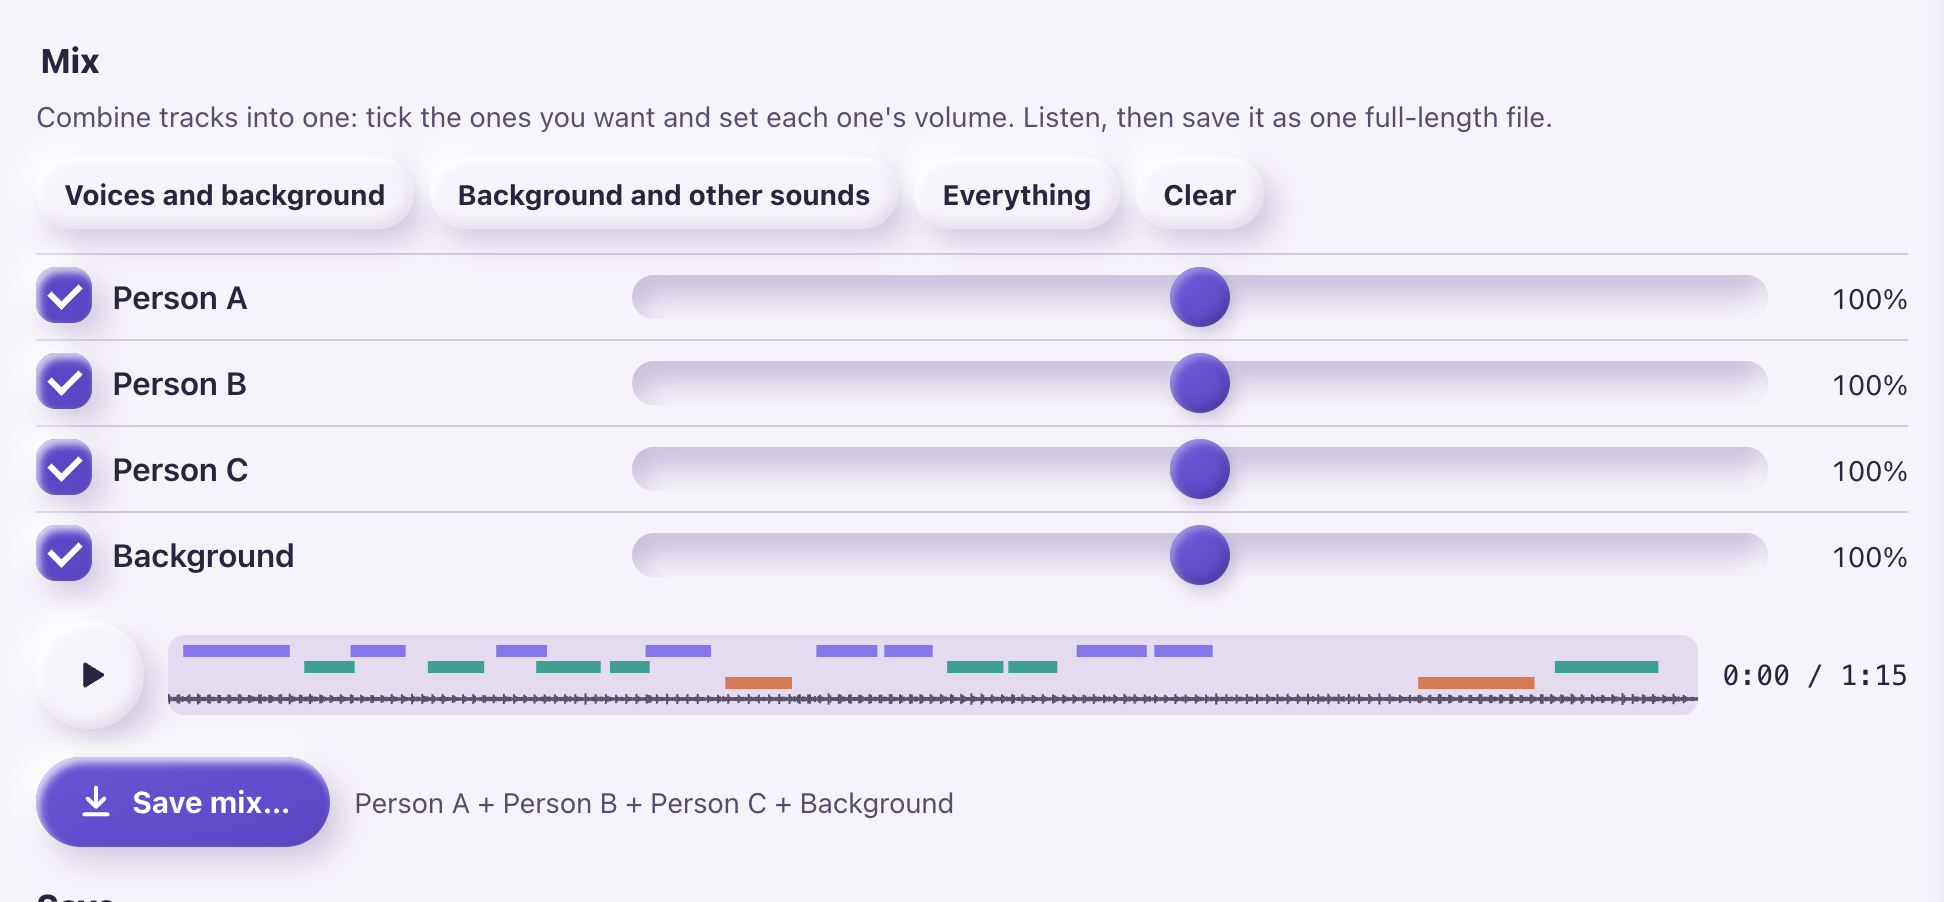
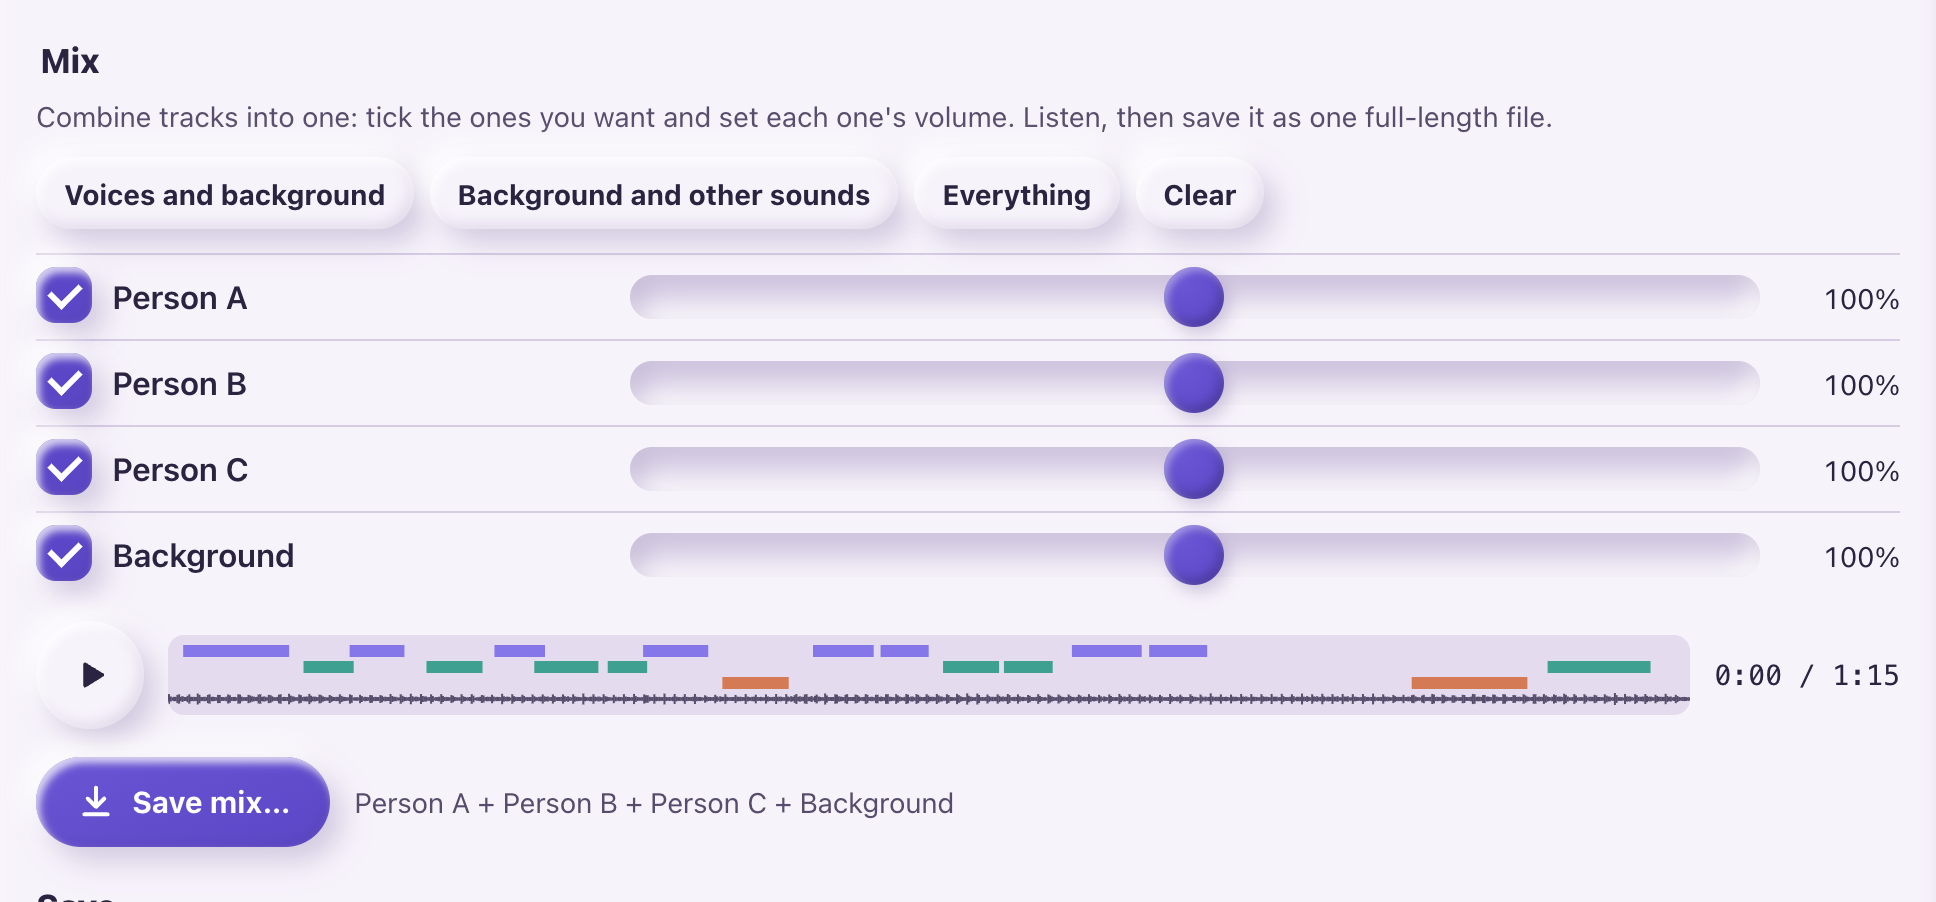
Screenshots of the current app (sidebar layout, Speech to speech cards, Separate speakers, Mix, Setup)

diff --git a/index.html b/index.html
@@ -109,7 +109,7 @@
     <p class="section-lead">Real screens from the app. Click a picture to see it full size.</p>
     <div class="gallery">
       <figure class="shot shot-wide">
-        <a href="assets/separate_results.png"><img src="assets/separate_results.png" alt="Results of Separate speakers: Person A, B and C each with their own timeline, play, rename, use as voice and save buttons, and a Background row with its waveform" loading="lazy" width="1008" height="582"></a>
+        <a href="assets/separate_results.png"><img src="assets/separate_results.png" alt="Results of Separate speakers: Person A, B and C each with their own timeline, play, rename, use as voice and save buttons, and a Background row with its waveform" loading="lazy" width="1004" height="582"></a>
         <figcaption><strong>Separate speakers.</strong> A row per person with a letter, a pattern and a colour, a timeline of when they talk, and the background on its own.</figcaption>
       </figure>
       <figure class="shot">
@@ -121,7 +121,7 @@
         <figcaption><strong>Speech to speech.</strong> Re-voice a whole recording, keeping its timing for video or taking on the new voice's delivery.</figcaption>
       </figure>
       <figure class="shot">
-        <a href="assets/mix.png"><img src="assets/mix.png" alt="Mix section: checkboxes and volume sliders for Person A, B, C and Background, quick mix buttons, a preview timeline and a Save mix button" loading="lazy" width="972" height="451"></a>
+        <a href="assets/mix.png"><img src="assets/mix.png" alt="Mix section: checkboxes and volume sliders for Person A, B, C and Background, quick mix buttons, a preview timeline and a Save mix button" loading="lazy" width="968" height="451"></a>
         <figcaption><strong>Mix.</strong> Tick tracks, set volumes, listen, and save one file.</figcaption>
       </figure>
       <figure class="shot">
